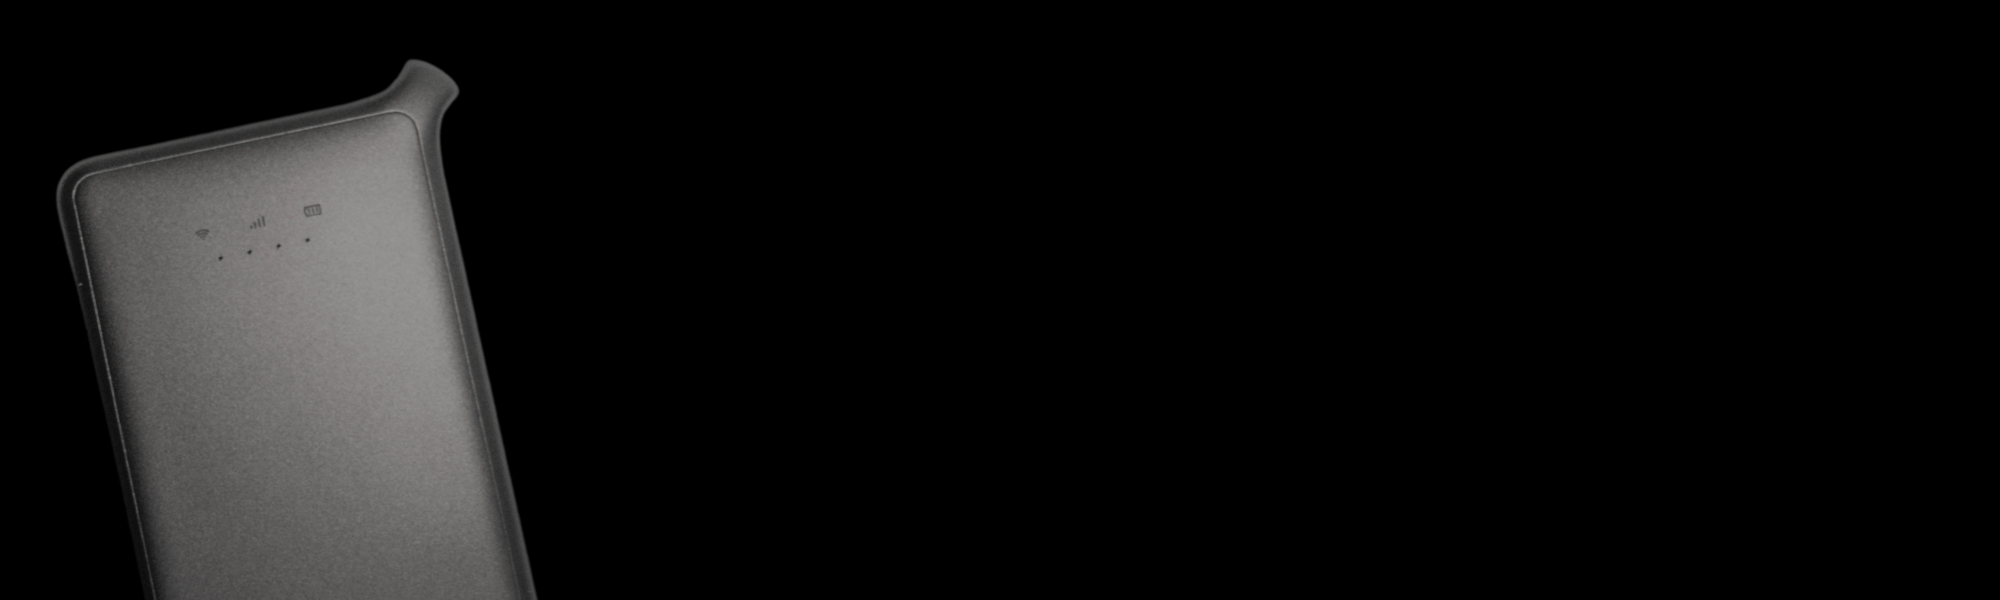
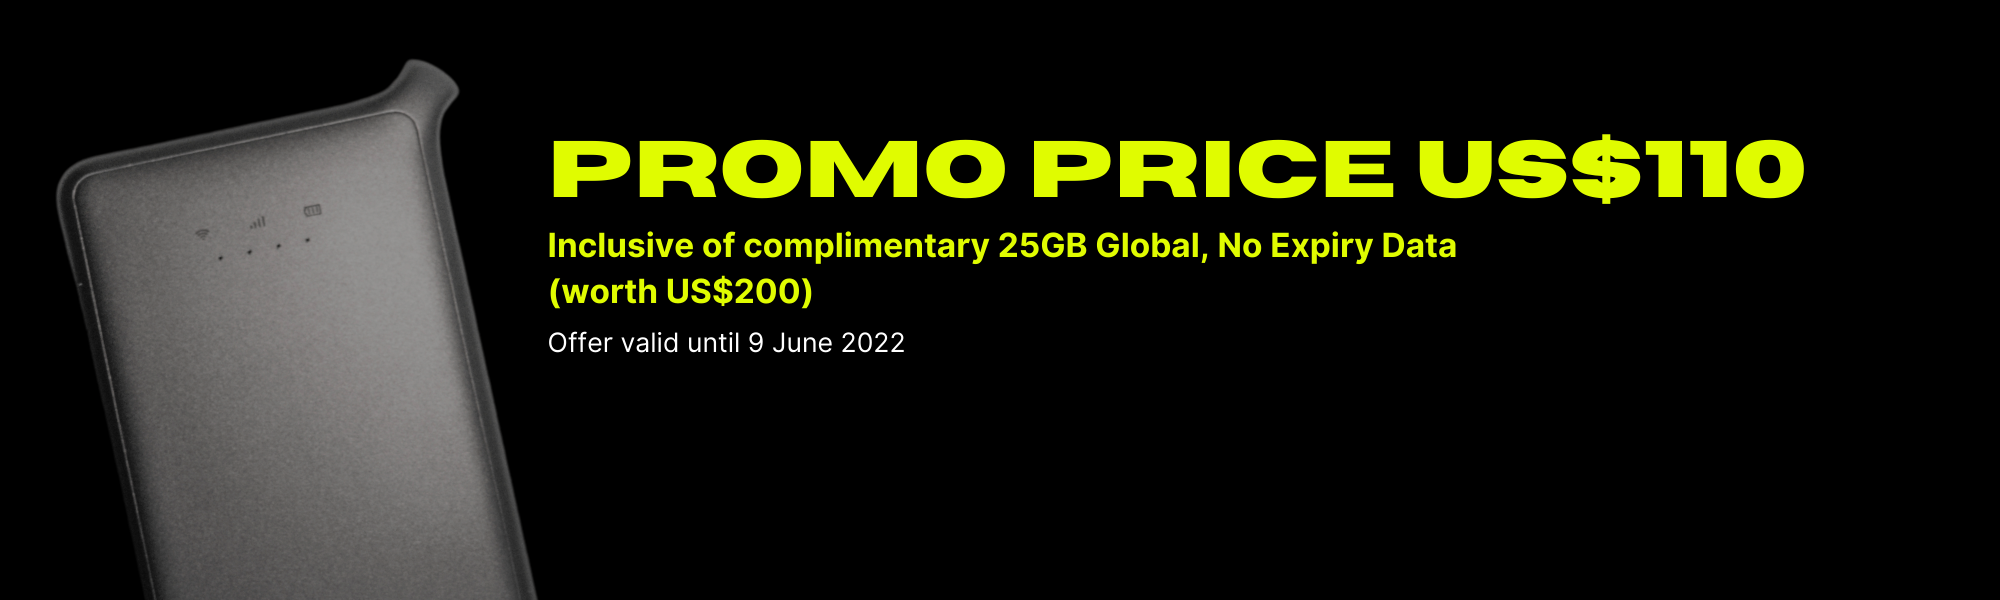
Update footer image

Changed region(s): [[0.279, 0.21, 0.899, 0.33], [0.279, 0.39, 0.744, 0.51], [0.279, 0.54, 0.465, 0.6]]

diff --git a/assets/css/style.css b/assets/css/style.css
@@ -692,7 +692,7 @@ li.nav-list-item.shopify-nav-item:hover {
     background-size: contain;
 }
 
-.holiday-banner .button-wrapper {
+/* .holiday-banner .button-wrapper {
     display: grid;
     height: 100%;
     grid-template-rows: 5em 2fr 1fr;
@@ -711,9 +711,45 @@ li.nav-list-item.shopify-nav-item:hover {
 
 .holiday-banner .button-wrapper #product-component-456 {
     grid-row-start: 3;
+} */
+
+.bottom-promo-wrapper {
+    position: relative;
+    display: inline-block;
+    width: 100vw;
+    padding-top: 1em;
+    overflow: hidden;
+    background-color: black;
 }
 
-.shopify-buy__layout-vertical {
+.promo-text {
+    position: absolute;
+    z-index: 999;
+    margin: 0 auto;
+    left: 27vw;
+    top: 68%;
+    width: 80%;
+    color: white;
+    margin-left: 6px;
+}
+
+.shopify-buy__btn-wrapper {
+    text-align: left !important;
+}
+
+.promo-text .shopify-buy__btn {
+    width: 162px;
+    color: #432e2e;
+    font-size: 18px;
+    font-weight: 900;
+    border: none;
+    padding: 4px;
+    line-height: normal;
+    background-color: #e0fc00;
+    border-radius: 6px;
+}
+
+.promo-text .shopify-buy__layout-vertical {
     text-align: left !important;
 }
 
@@ -2934,7 +2970,7 @@ li.nav-list-item.shopify-nav-item:hover {
     height: 600px;
     background-size: contain;
     background-repeat: no-repeat;
-    margin-top: 100px;
+    /* margin-top: 100px; */
     background-color: black;
     width: 425px;
 }

diff --git a/index.html b/index.html
@@ -351,7 +351,7 @@
             </div>
         </section>
         
-        <section class="holiday-banner-wrapper">
+        <!-- <section class="holiday-banner-wrapper">
             <div class="holiday-banner">
                 <div class="image-container">
                 </div>
@@ -364,6 +364,17 @@
                     </div>
                     <div id='product-component-456'></div>
                 </div>
+            </div>
+        </section> -->
+
+        <section class="bottom-promo-wrapper">
+            <img src="./assets/images/popup/horizontal.png" loading="lazy" alt="Udata device">
+            <div class="promo-text">
+                <!-- <h1 class="main-promo-text --promo-yellow --pb-1 --bold-text">PROMO PRICE US$10</h1>
+                <h2 class="--promo-yellow --bold-text">Inclusive of complimentary 25GB Global, No Expiry Data</h2>
+                <h2 class="--promo-yellow --pb-1 --bold-text">(worth US$200)</h2>
+                <p>Offer valid until 9 June 2022</p> -->
+                <div id='product-component-456'></div>
             </div>
         </section>
     </main>

diff --git a/assets/js/yellow-shopify-button-2.js b/assets/js/yellow-shopify-button-2.js
@@ -30,6 +30,7 @@
                 moneyFormat: '%24%7B%7Bamount%7D%7D',
                 options: {
                     "product": {
+                        "iframe": false,
                         "styles": {
                             "product": {
                                 "@media (min-width: 601px)": {
@@ -60,6 +61,10 @@
                                 "font-size": "16px",
                                 "padding-top": "16px",
                                 "padding-bottom": "16px"
+                            },
+                            "wrapper": {
+                                "text-align": "left",
+                                "border": "0px"
                             }
                         },
                         "buttonDestination": "checkout",
